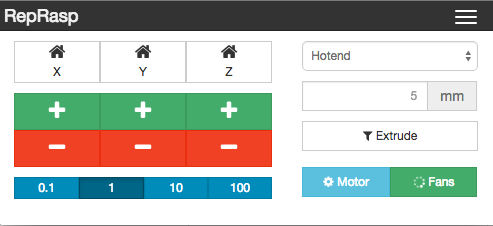
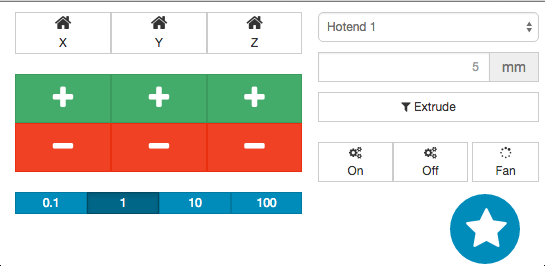
more ui tweaks

diff --git a/www/control.html b/www/control.html
@@ -29,23 +29,38 @@
       <div class="row">
         <div class="col-sm-8 col-xs-7">
           <div class="btn-group btn-group-justified"><a href="#" class="btn btn-default btn-xs col-sm-4"><i class="fa fa-home fa-1"></i><br>X</a><a href="#" class="btn btn-default btn-xs col-sm-4"><i class="fa fa-home fa-1"></i><br>Y</a><a href="#" class="btn btn-default btn-xs col-sm-4"><i class="fa fa-home fa-1"></i><br>Z</a></div>
-          <div style="height:10px;" class="push"></div>
-          <div class="btn-group btn-group-justified"><a href="#" class="btn btn-success col-sm-4 plus_x"><i class="fa fa-plus fa-1"></i></a><a href="#" class="btn btn-success col-sm-4 plus_y"><i class="fa fa-plus fa-1"></i></a><a href="#" class="btn btn-success col-sm-4 plus_z"><i class="fa fa-plus fa-1"></i></a></div>
-          <div class="btn-group btn-group-justified"><a href="#" class="btn btn-danger col-sm-4 minus_x"><i class="fa fa-minus fa-1"></i></a><a href="#" class="btn btn-danger ol-sm-4 minus_y"><i class="fa fa-minus fa-1"></i></a><a href="#" class="btn btn-danger col-sm-4 minus_z"><i class="fa fa-minus fa-1"></i></a></div>
-          <div style="height:10px;" class="push"></div>
+          <div style="height:20px;" class="push"></div>
+          <div class="btn-group btn-group-justified"><a href="#" class="btn btn-success btn-lg col-sm-4 plus_x"><i class="fa fa-plus fa-2"></i></a><a href="#" class="btn btn-success btn-lg col-sm-4 plus_y"><i class="fa fa-plus fa-2"></i></a><a href="#" class="btn btn-success btn-lg col-sm-4 plus_z"><i class="fa fa-plus fa-2"></i></a></div>
+          <div class="btn-group btn-group-justified"><a href="#" class="btn btn-danger btn-lg col-sm-4 minus_x"><i class="fa fa-minus fa-2"></i></a><a href="#" class="btn btn-danger btn-lg ol-sm-4 minus_y"><i class="fa fa-minus fa-2"></i></a><a href="#" class="btn btn-danger btn-lg col-sm-4 minus_z"><i class="fa fa-minus fa-2"></i></a></div>
+          <div style="height:20px;" class="push"></div>
           <div class="btn-group btn-group-justified measured_amount"><a href="#" data-amount="0.1" class="btn btn-primary btn-xs col-sm-3">0.1</a><a href="#" data-amount="1" class="btn btn-primary active btn-xs col-sm-3">1</a><a href="#" data-amount="10" class="btn btn-primary btn-xs col-sm-3">10</a><a href="#" data-amount="100" class="btn btn-primary btn-xs col-sm-3">100</a></div>
         </div>
-        <div class="col-sm-4 col-xs-5">
-          <select id="tool_select" class="form-control input-sm">
-            <option value="">Hotend</option>
-          </select>
-          <div style="height:10px;" class="push"></div>
-          <div class="input-group">
-            <input type="text" placeholder="5" class="form-control input-sm text-right"><span class="input-group-addon">mm</span>
+        <div class="col-sm-4 col-xs-5 small-pf">
+          <div class="test">
+            <select id="tool_select" class="form-control input-sm">
+              <option value="">Hotend 1</option>
+            </select>
+            <div style="height:10px;" class="push"></div>
+            <div class="input-group">
+              <input type="text" placeholder="5" class="form-control input-sm text-right"><span class="input-group-addon">mm</span>
+            </div>
+            <div style="height:10px;" class="push"></div><a href="#" class="btn btn-default btn-sm btn-block"><i class="fa fa-filter"></i> Extrude</a>
           </div>
-          <div style="height:10px;" class="push"></div><a href="#" class="btn btn-default btn-sm btn-block"><i class="fa fa-filter"></i> Extrude</a>
-          <div style="height:16px;" class="push"></div>
-          <div class="btn-group btn-group-justified"><a href="#" class="btn btn-info btn-sm col-sm-3 motor_toggle top-spin"><i class="fa fa-cog"></i>   Motor</a><a href="#" class="btn btn-success btn-sm col-sm-3 fans_toggle top-spin"><i class="fa fa-spinner fa-spin"></i>   Fans</a></div>
+          <div style="margin-top:20px" class="row small-nopad">
+            <div class="col-xs-8 small-pf-r">
+              <div role="group" aria-label="..." class="btn-group btn-group-justified">
+                <div role="group" aria-label="..." class="btn-group">
+                  <button type="button" class="btn btn-default btn-xs"><i class="fa fa-gears"></i><br>   On</button>
+                </div>
+                <div role="group" aria-label="..." class="btn-group">
+                  <button type="button" class="btn btn-default btn-xs"><i class="fa fa-gears"></i><br>   Off</button>
+                </div>
+              </div>
+            </div>
+            <div class="col-xs-4 small-pf-l">
+              <button type="button" class="btn btn-default btn-block btn-xs"><i class="fa fa-spinner"></i><br>Fan</button>
+            </div>
+          </div>
         </div>
       </div>
     </div>

diff --git a/www/webroot/css/RepRasp.min.css b/www/webroot/css/RepRasp.min.css
@@ -1,1 +1,1 @@
-body,html{height:100%}body{padding:10px 0 0}.navbar-toggle{float:left;margin-left:15px}.navbar-default .navbar-toggle .icon-bar{background:#999!important}@media (min-width:0){.navbar-toggle{display:block}}@media (min-width:992px){body{padding:0}.navbar{right:auto;background:0 0;border:none}.navbar-toggle{border:1px solid #000;border-color:#333!important}}.fa-text-white,.navmenu-nav>li>a{color:#fff!important}.background-primary{background:#008cba}.navbar-default .navbar-brand,.navbar-default .navbar-nav>li>a{color:#008cba}.navmenu-brand{color:#008cba!important}.navmenu-brand:hover{color:#1f1f1f!important}.navbar-default .navbar-brand:hover,.navbar-default .navbar-nav>li>a:hover{color:#008cba}.status_lead{font-size:23px;margin:0 auto 15px;text-align:center;padding:10px}.navbar-toggle{padding:0}.panel-heading{padding:1px 10px}.top-spin{padding-top:5px}.action-button{position:fixed;right:10px;bottom:10px;display:block;z-index:9999}.footertext{color:#fff;font-size:13px;margin-top:0;text-align:center}.navbar-default .navbar-offcanvas .navmenu-brand{color:#FFF}.btn-circle{width:30px;height:30px;text-align:center;padding:6px 0;font-size:12px;line-height:1.428571429;border-radius:15px}.btn-circle.btn-lg{width:50px;height:50px;padding:10px 16px;font-size:18px;line-height:1.33;border-radius:25px}.action-button,.btn-circle.btn-xl{width:70px;height:70px;padding:10px 16px;font-size:24px;line-height:1.33;border-radius:35px}.action-button .fa{font-size:44px;margin-left:-1px;color:#FFF}.action-button:hover .fa{color:#333}@media (min-width:992px){.navbar{padding-right:15px}}@media (max-width:768px){.navbar,.navbar-brand,.navbar-header{height:30px}body{padding-top:10px;padding-bottom:20px}.navbar-default .navbar-brand{padding:5px}.navbar{min-height:30px;margin-bottom:0}}@media (min-width:768px){.navbar-nav{float:right}}
+body,html{height:100%}body{padding:10px 0 0;overflow-x:hidden}.navbar-toggle{float:left;margin-left:15px}.navbar-default .navbar-toggle .icon-bar{background:#999!important}@media (min-width:0){.navbar-toggle{display:block}}@media (min-width:992px){body{padding:0}.navbar{right:auto;background:0 0;border:none}.navbar-toggle{border:1px solid #000;border-color:#333!important}}.fa-text-white,.navmenu-nav>li>a{color:#fff!important}.background-primary{background:#008cba}.navbar-default .navbar-brand,.navbar-default .navbar-nav>li>a{color:#008cba}.navmenu-brand{color:#008cba!important}.navmenu-brand:hover{color:#1f1f1f!important}.navbar-default .navbar-brand:hover,.navbar-default .navbar-nav>li>a:hover{color:#008cba}.status_lead{font-size:23px;margin:0 auto 15px;text-align:center;padding:10px}.navbar-toggle{padding:0}.panel-heading{padding:1px 10px}.top-spin{padding-top:5px}.action-button{position:fixed;right:10px;bottom:-5px;display:block;z-index:9999}.footertext{color:#fff;font-size:13px;margin-top:0;text-align:center}.navbar-default .navbar-offcanvas .navmenu-brand{color:#FFF}.btn-circle{width:30px;height:30px;text-align:center;padding:6px 0;font-size:12px;line-height:1.428571429;border-radius:15px}.btn-circle.btn-lg{width:50px;height:50px;padding:10px 16px;font-size:18px;line-height:1.33;border-radius:25px}.action-button,.btn-circle.btn-xl{width:70px;height:70px;padding:10px 16px;font-size:24px;line-height:1.33;border-radius:35px}.action-button .fa{font-size:44px;margin-left:-1px;color:#FFF}.action-button:hover .fa{color:#333}@media (min-width:992px){.navbar{padding-right:15px}}@media (max-width:768px){.navbar,.navbar-brand,.navbar-header{height:30px}.small-pf-r{padding-right:2px}.small-pf-l{padding-left:2px}.small-pf{padding-left:0;padding-right:6px}body{padding-top:10px;padding-bottom:20px}.navbar-default .navbar-brand{padding:5px}.navbar{min-height:30px;margin-bottom:0}}@media (min-width:768px){.navbar-nav{float:right}}

diff --git a/assets/stylesheets/hui/_augment.scss b/assets/stylesheets/hui/_augment.scss
@@ -4,6 +4,7 @@ html, body {
 
 body {
   padding: 10px 0 0 0;
+  overflow-x: hidden;
 }
 
 .navbar-toggle {
@@ -75,7 +76,7 @@ body {
 .action-button {
   position: fixed;
   right:10px;
-  bottom: 10px;
+  bottom: -5px;
   display: block;
   z-index: 9999;
 }
@@ -135,6 +136,16 @@ body {
 }
 
 @media (max-width: 768px){
+  .small-pf-r {
+    padding-right:2px;
+  }
+  .small-pf-l {
+    padding-left:2px;
+  }
+  .small-pf {
+    padding-left:0px;
+    padding-right:6px;
+  }
   body {
     padding-top: 10px;
     padding-bottom: 20px;

diff --git a/www/webroot/css/RepRasp.css b/www/webroot/css/RepRasp.css
@@ -1,3 +1,9 @@
+/*! 3d Printer Touch Screen interface - v0.0.1 - 2015-07-28\n* https://www.huement.com/reprasp
+* Copyright (c) 2015 Derek Scott; License: MIT */
+ 
+/*! -- I Built This. Dont Hate. -- */
+
+
 html, body {
   height: 100%; }
 
